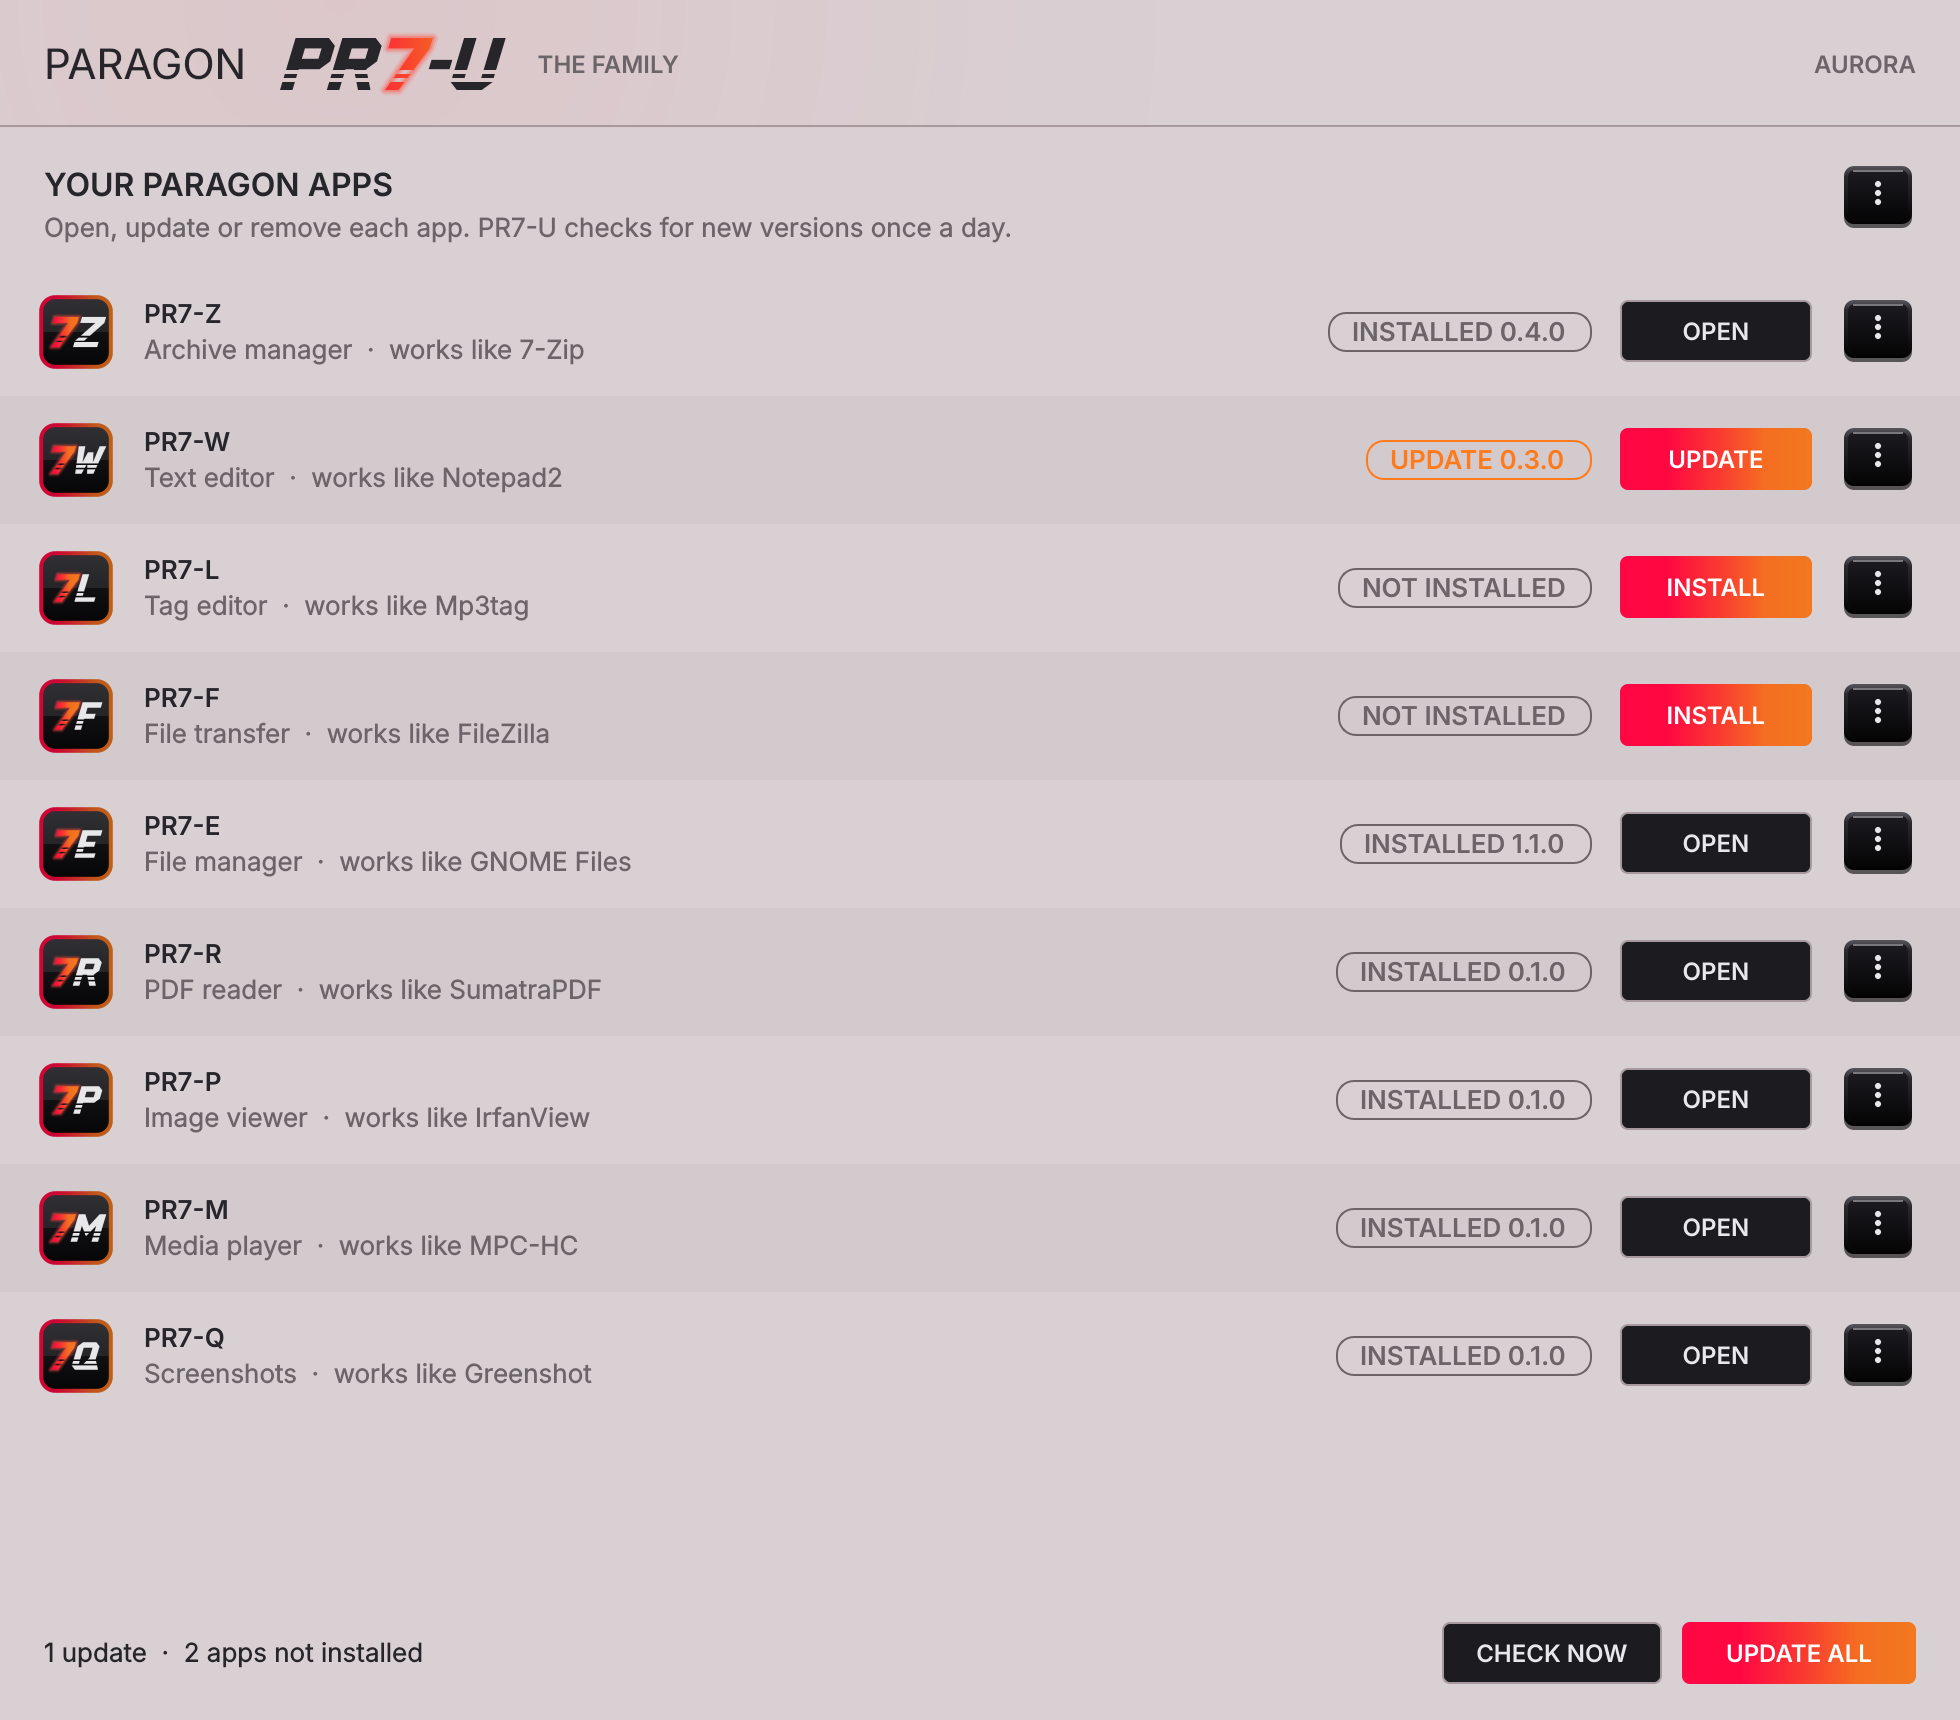
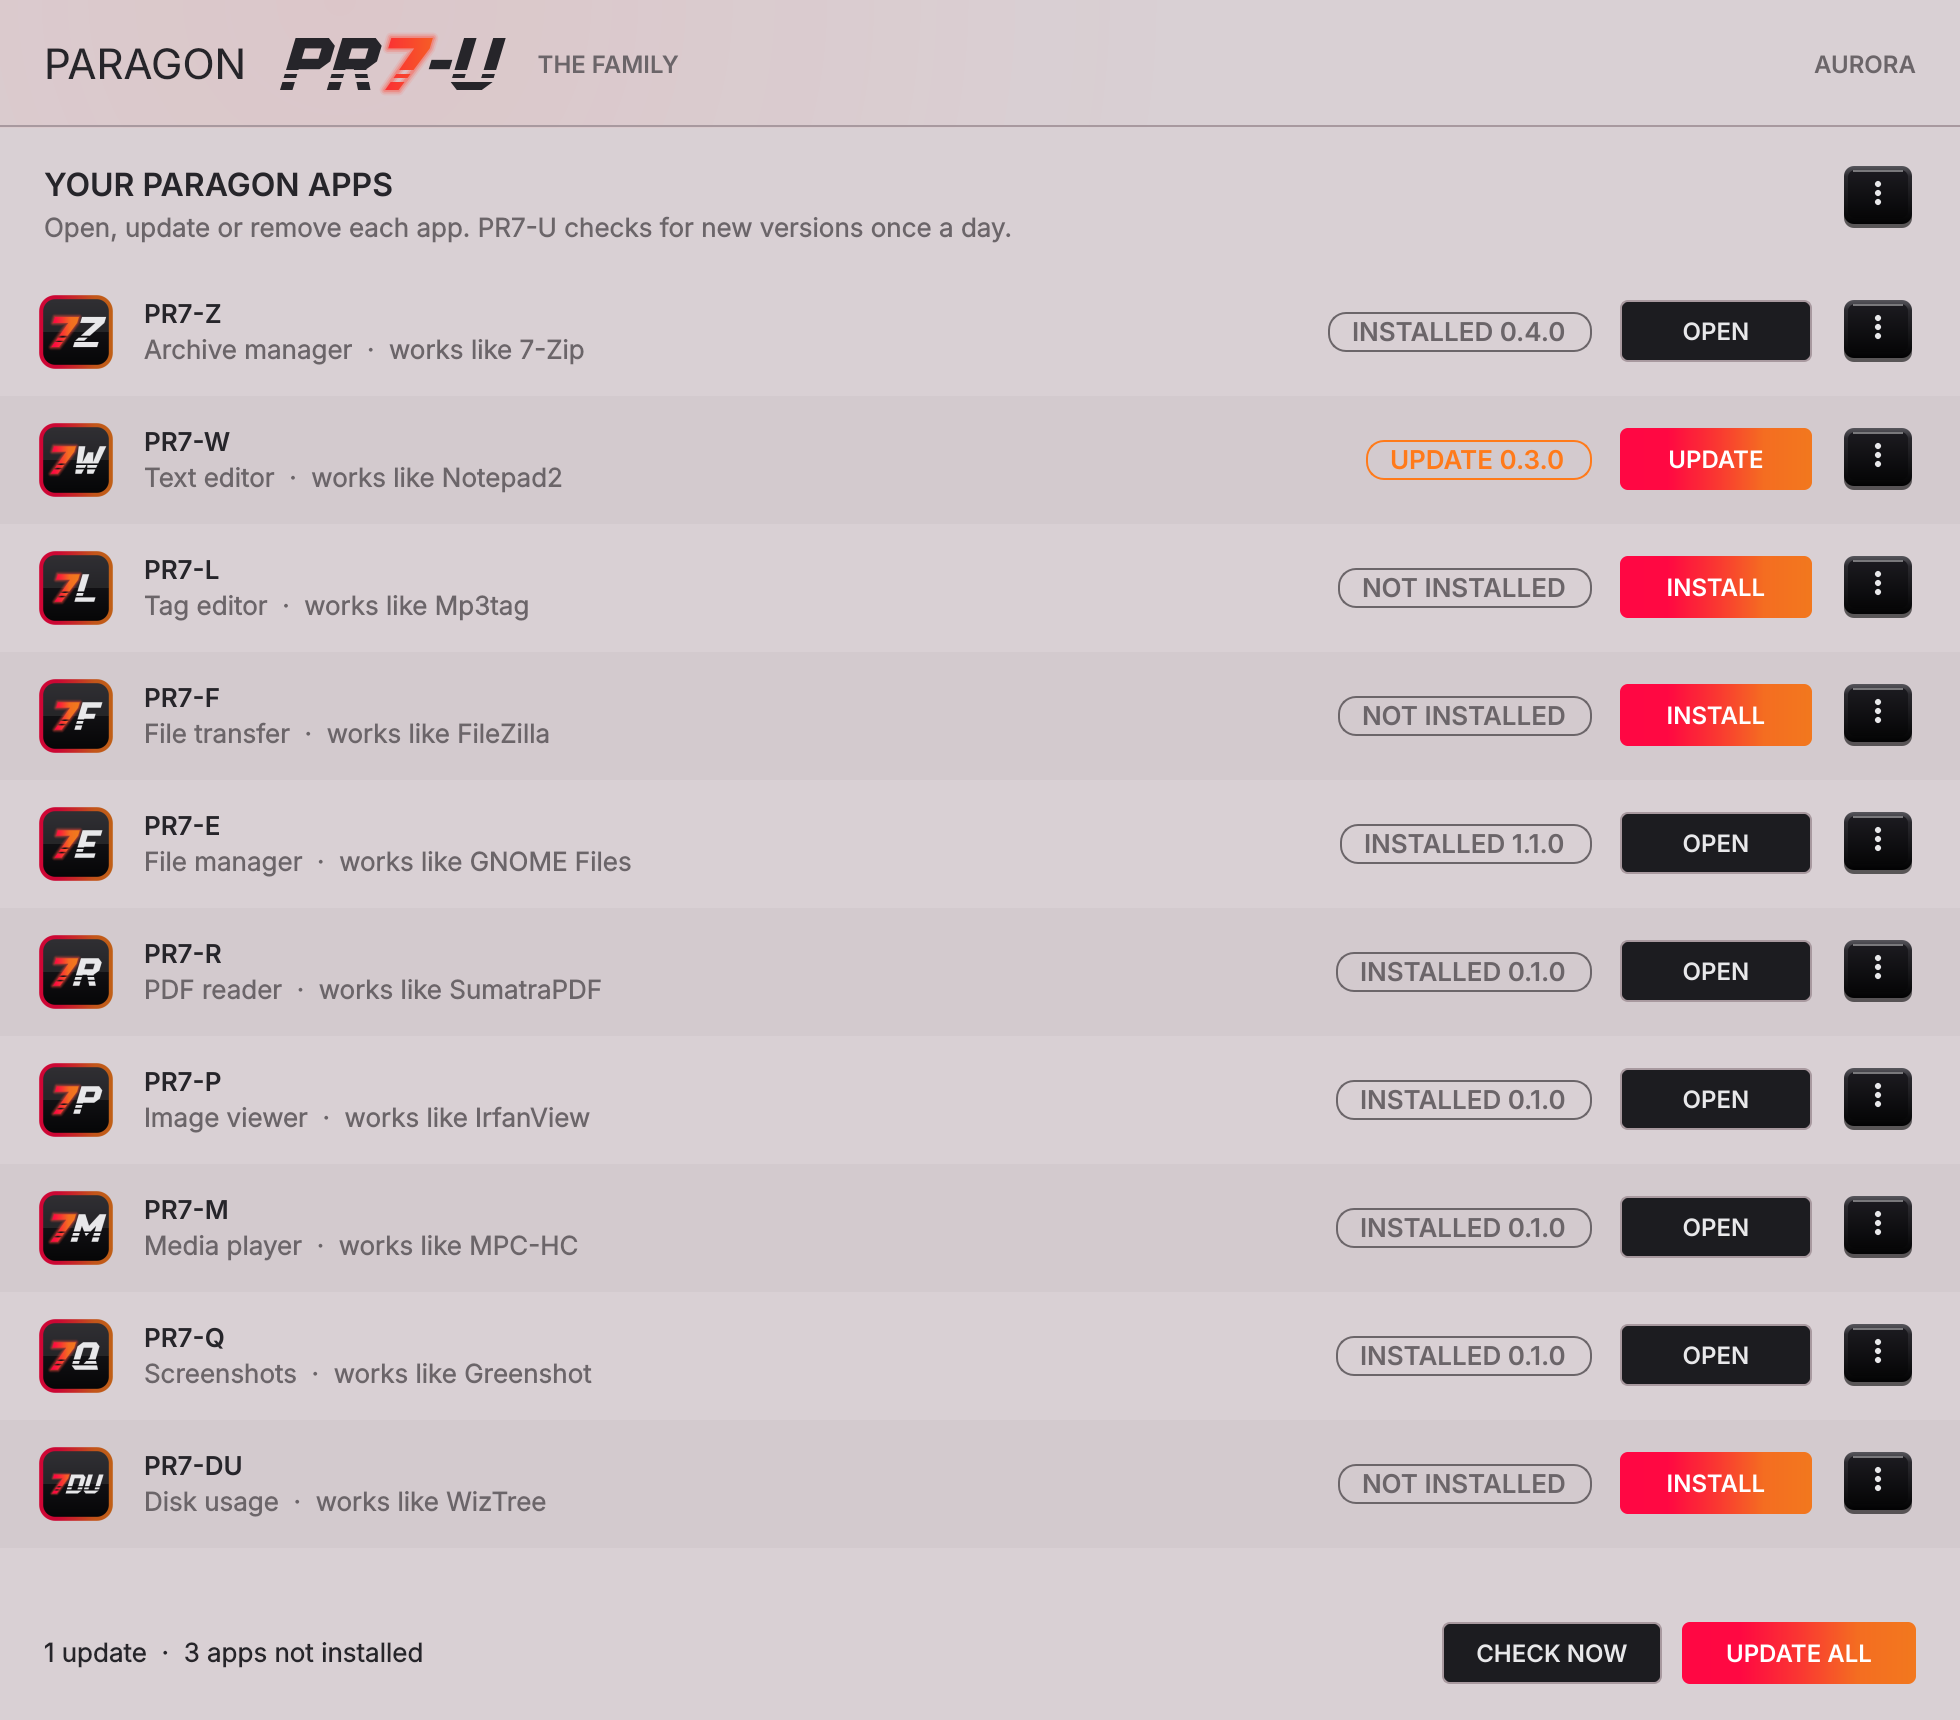
PR7-U 0.2.0: PR7-DU joins the family
Install the family offers PR7-DU (disk usage, works like WizTree; two letters because
Paragon-PR7-D was taken) and Your Paragon apps manages it like the others. Tests count
ten apps.

Claude-Session: https://claude.ai/code/session_01DkHHwBFzLfConzBFYoXfst

Changed region(s): [[0.0, 0.832, 0.2801, 0.8936], [0.8092, 0.832, 0.9959, 0.8936], [0.6847, 0.832, 0.7781, 0.8936]]

diff --git a/tests/test_window.py b/tests/test_window.py
@@ -11,17 +11,17 @@ def visible(w, key):
 def test_first_start_offers_the_whole_family(window, fam):
     window.refresh()
     assert window.mode == "choose" and window.heading.text() == "INSTALL THE FAMILY"
-    assert window.chosen() == list("ZWLFERPMQ")
-    total = sum(len(fam.files[f"/PR7-{x}-Setup-{v}.exe"]) for x, v in zip("ZWLFERPMQ", [
-        "0.4.0", "0.3.0", "0.7.0", "0.5.0", "1.1.0", "0.1.0", "0.1.0", "0.1.0", "0.1.0"]))
-    assert window.summary.text() == f"9 apps  ·  {total / 1e6:.1f} MB to download"
-    assert window.buttons["go"].text() == "INSTALL 9 APPS"
+    from conftest import LETTERS, VERSIONS
+    assert window.chosen() == LETTERS
+    total = sum(len(fam.files[f"/PR7-{x}-Setup-{v}.exe"]) for x, v in zip(LETTERS, VERSIONS))
+    assert window.summary.text() == f"10 apps  ·  {total / 1e6:.1f} MB to download"
+    assert window.buttons["go"].text() == "INSTALL 10 APPS"
     window.widgets["M"].check.setChecked(False)
-    assert window.buttons["go"].text() == "INSTALL 8 APPS" and "M" not in window.chosen()
+    assert window.buttons["go"].text() == "INSTALL 9 APPS" and "M" not in window.chosen()
     window._button_none()
     assert not window.buttons["go"].isEnabled() and window.summary.text() == "Nothing ticked"
     window._button_all()
-    assert len(window.chosen()) == 9
+    assert len(window.chosen()) == 10
 
 
 def test_install_the_chosen_ones(window, fam):
@@ -31,7 +31,7 @@ def test_install_the_chosen_ones(window, fam):
     window.refresh()
     assert window.mode == "choose"
     assert not window.widgets["E"].check.isChecked() and not window.widgets["Q"].check.isEnabled()
-    for k in "LFRPM":
+    for k in ["L", "F", "R", "P", "M", "DU"]:
         window.widgets[k].check.setChecked(False)
     window._button_go()                                   # Z and W
     assert [a[0].rsplit("/", 1)[-1].rsplit("\\", 1)[-1] for a in fam.ran] == ["PR7-Z-Setup-0.4.0.exe",
@@ -75,7 +75,7 @@ def test_manage_view_open_update_uninstall(window, fam):
     assert window.mode == "manage" and window.heading.text() == "YOUR PARAGON APPS"
     w = window.widgets
     assert (w["Z"].button.text(), w["E"].button.text(), w["W"].button.text()) == ("UPDATE", "OPEN", "INSTALL")
-    assert window.summary.text() == "1 update  ·  7 apps not installed"
+    assert window.summary.text() == "1 update  ·  8 apps not installed"
     assert visible(window, "go") and window.buttons["go"].text() == "UPDATE ALL"
     opened = []
     window.answers["launch"] = lambda name, args: opened.append(name) or True
@@ -99,7 +99,8 @@ def test_manage_view_open_update_uninstall(window, fam):
 
 def test_offline_still_shows_whats_installed(window, fam):
     fam.install("PR7-Z", "0.4.0")
-    fam.broken.update(f"PR7-{x}" for x in "ZWLFERPMQ")
+    from conftest import LETTERS
+    fam.broken.update(f"PR7-{x}" for x in LETTERS)
     window.refresh()
     assert window.mode == "manage" and window.widgets["Z"].button.text() == "OPEN"
     assert "GitHub couldn’t be reached" in window.summary.text() and window.widgets["W"].button is None
@@ -126,7 +127,7 @@ def test_listing(fam, tmp_path):
     assert app.listing(str(out), fam.fetch, fam.reader) == 0
     got = {d["app"]: d for d in json.loads(out.read_text())}
     assert got["PR7-Z"]["state"] == "update" and got["PR7-Z"]["installed"] == "0.3.0" and got["PR7-Z"]["latest"] == "0.4.0"
-    assert len(got) == 9 and got["PR7-W"]["installed"] is None
+    assert len(got) == 10 and got["PR7-W"]["installed"] is None
 
 
 def test_install_and_uninstall_without_a_window(fam):
@@ -135,7 +136,7 @@ def test_install_and_uninstall_without_a_window(fam):
     fam.install("PR7-E", "1.1.0")
     assert app.headless("install", "all", fam.fetch, None, fam.runner, fam.reader, lines.append) == 0
     assert "PR7-M: no release yet" in lines and "PR7-E: up to date (1.1.0)" in lines and "PR7-Z: installed 0.4.0" in lines
-    assert len(fam.registry) == 8
+    assert len(fam.registry) == 9
     lines.clear()
     fam.failing.add("PR7-Q"); fam.release("PR7-Q", "0.2.0")
     assert app.headless("install", "Q", fam.fetch, None, fam.runner, fam.reader, lines.append) == 1

diff --git a/tests/test_releases.py b/tests/test_releases.py
@@ -7,12 +7,13 @@ from pr7u.updates import UpdateError
 
 
 def test_the_catalog_is_the_whole_family():
-    assert [a.name for a in catalog.APPS] == [f"PR7-{x}" for x in "ZWLFERPMQ"]
-    assert len({a.appid for a in catalog.APPS}) == 9 and family.APPS["PR7-U"] not in {a.appid for a in catalog.APPS}
+    from conftest import LETTERS
+    assert [a.name for a in catalog.APPS] == [f"PR7-{x}" for x in LETTERS]
+    assert len({a.appid for a in catalog.APPS}) == 10 and family.APPS["PR7-U"] not in {a.appid for a in catalog.APPS}
     for a in catalog.APPS:
         assert Path(a.icon).is_file() and a.repo == f"ARYEZ/Paragon-{a.name}"
     assert [a.letter for a in catalog.pick("q, PR7-z")] == ["Z", "Q"]       # catalogue order
-    assert len(catalog.pick("all")) == 9
+    assert len(catalog.pick("all")) == 10 and [a.name for a in catalog.pick("du")] == ["PR7-DU"]
     with pytest.raises(ValueError):
         catalog.pick("Z,X")
 
@@ -37,7 +38,7 @@ def test_survey_states(fam):
     rows = {r.app.letter: r for r in releases.survey(fetch=fam.fetch, reader=fam.reader)}
     assert {k: r.state for k, r in rows.items()} == {"Z": "update", "W": "new", "L": "current", "F": "error",
                                                        "E": "current", "R": "new", "P": "new", "M": "new",
-                                                       "Q": "unreleased"}
+                                                       "Q": "unreleased", "DU": "new"}
     assert rows["Z"].wanted and not rows["E"].wanted and "network down" in rows["F"].error
 
 

diff --git a/tools/screenshots.py b/tools/screenshots.py
@@ -25,13 +25,13 @@ out.mkdir(parents=True, exist_ok=True)
 app = QApplication([])
 theme.load_fonts()
 
-LATEST = dict(zip("ZWLFERPMQ", ["0.4.0", "0.3.0", "0.7.0", "0.5.0", "1.1.0", "0.1.0", "0.1.0", "0.1.0", "0.1.0"]))
-SIZES = dict(zip("ZWLFERPMQ", [36.4, 27.4, 36.9, 42.1, 42.4, 38.0, 37.2, 61.5, 35.4]))
+LATEST = dict(zip(["Z", "W", "L", "F", "E", "R", "P", "M", "Q", "DU"], ["0.4.0", "0.3.0", "0.7.0", "0.5.0", "1.1.0", "0.1.0", "0.1.0", "0.1.0", "0.1.0", "0.1.0"]))
+SIZES = dict(zip(["Z", "W", "L", "F", "E", "R", "P", "M", "Q", "DU"], [36.4, 27.4, 36.9, 42.1, 42.4, 38.0, 37.2, 61.5, 35.4, 34.8]))
 registry = {}
 
 
 def fetch(url):
-    k = url.split("/repos/ARYEZ/Paragon-PR7-")[1][0]
+    k = url.split("/repos/ARYEZ/Paragon-PR7-")[1].split("/")[0]
     v = LATEST[k]
     return json.dumps({"tag_name": f"v{v}", "html_url": "", "body": "",
                        "assets": [{"name": f"PR7-{k}-Setup-{v}.exe", "size": int(SIZES[k] * 1e6),

diff --git a/tests/conftest.py b/tests/conftest.py
@@ -12,6 +12,8 @@ sys.path.insert(0, str(ROOT))
 sys.path.insert(0, str(ROOT / "tools"))
 os.environ.setdefault("QT_QPA_PLATFORM", "offscreen")
 os.environ.pop("PR7U_GITHUB_TOKEN", None)
+LETTERS = ["Z", "W", "L", "F", "E", "R", "P", "M", "Q", "DU"]
+VERSIONS = ["0.4.0", "0.3.0", "0.7.0", "0.5.0", "1.1.0", "0.1.0", "0.1.0", "0.1.0", "0.1.0", "0.1.0"]
 
 
 @pytest.fixture(scope="session")
@@ -128,7 +130,7 @@ def fam(tmp_path):
     threading.Thread(target=server.serve_forever, daemon=True).start()
     f = Family(f"http://127.0.0.1:{server.server_address[1]}")
     state["fam"] = f
-    for letter, v in zip("ZWLFERPMQ", ["0.4.0", "0.3.0", "0.7.0", "0.5.0", "1.1.0", "0.1.0", "0.1.0", "0.1.0", "0.1.0"]):
+    for letter, v in zip(LETTERS, VERSIONS):
         f.release(f"PR7-{letter}", v)
     yield f
     server.shutdown()

diff --git a/pr7u/family.py b/pr7u/family.py
@@ -13,7 +13,8 @@ APPS = {"PR7-Z": "{9914C6C8-01EC-476F-845D-98F814A0426E}", "PR7-W": "{D8F51204-6
         "PR7-E": "{6B8E2F14-3C5A-4D97-A1E0-7F29C4B85D36}",
         "PR7-R": "{1BC53F2C-70E7-45EA-B97E-FC9294E87FC3}", "PR7-P": "{02CE0A66-B141-47AD-9489-ACCB0C53E81C}",
         "PR7-M": "{CAA852D1-CDD0-4246-8ADB-50307D44F360}", "PR7-Q": "{D7ED5F6F-F80A-403C-8739-AA5BA3676C97}",
-        "PR7-U": "{12226380-56E6-4D77-8F5C-8052A0AE4183}"}
+        "PR7-U": "{12226380-56E6-4D77-8F5C-8052A0AE4183}",
+        "PR7-DU": "{9DFF1917-658D-4BE5-8C19-A88E7150AC24}"}
 UNINSTALL = r"Software\Microsoft\Windows\CurrentVersion\Uninstall\{}_is1"
 
 

diff --git a/pr7u/catalog.py b/pr7u/catalog.py
@@ -54,6 +54,7 @@ APPS = [
     App("P", "Image viewer", "IrfanView"),
     App("M", "Media player", "MPC-HC"),
     App("Q", "Screenshots", "Greenshot"),
+    App("DU", "Disk usage", "WizTree"),          # Paragon-PR7-D was already taken: two letters
 ]
 BY_LETTER = {a.letter: a for a in APPS}
 

diff --git a/pr7u/__init__.py b/pr7u/__init__.py
@@ -1,3 +1,3 @@
 """Paragon PR7-U: installs and updates the whole Paragon PR7 family."""
 
-__version__ = "0.1.0"
+__version__ = "0.2.0"

diff --git a/CLAUDE.md b/CLAUDE.md
@@ -1,7 +1,8 @@
 # Paragon PR7-U: notes for Claude
 
 **Paragon PR7-U** is the owner's family installer: Python (**PySide6**) that installs, updates and removes the Paragon
-PR7 family (PR7-Z, W, L, F, E, R, P, M, Q `ARYEZ/Paragon-PR7-*`), each from its own latest GitHub release, in the
+PR7 family (PR7-Z, W, L, F, E, R, P, M, Q, DU `ARYEZ/Paragon-PR7-*`; DU has two letters: `App.letter` is
+  whatever follows "PR7-"), each from its own latest GitHub release, in the
 family look. Windows 10/11 x64 is the target; it runs on Linux for tests. The owner writes Python; explain the why.
 
 ## How it's built

diff --git a/CHANGELOG.md b/CHANGELOG.md
@@ -1,5 +1,11 @@
 # Changelog
 
+## 0.2.0
+
+- **PR7-DU** (disk usage, works like WizTree) joins the family: Install the family offers it, and Your Paragon
+  apps opens, updates and removes it like the others.
+- Check for Updates in the other family apps now offers PR7-U.
+
 ## 0.1.0
 
 - First release: the one download for the Paragon PR7 family. **Install the family** ticks every app that's missing

diff --git a/README.md b/README.md
@@ -16,6 +16,7 @@ own latest GitHub release, in the family look. Python and PySide6.
 | PR7-P | Image viewer | IrfanView |
 | PR7-M | Media player | MPC-HC |
 | PR7-Q | Screenshots | Greenshot |
+| PR7-DU | Disk usage | WizTree |
 
 ## How it works
 
